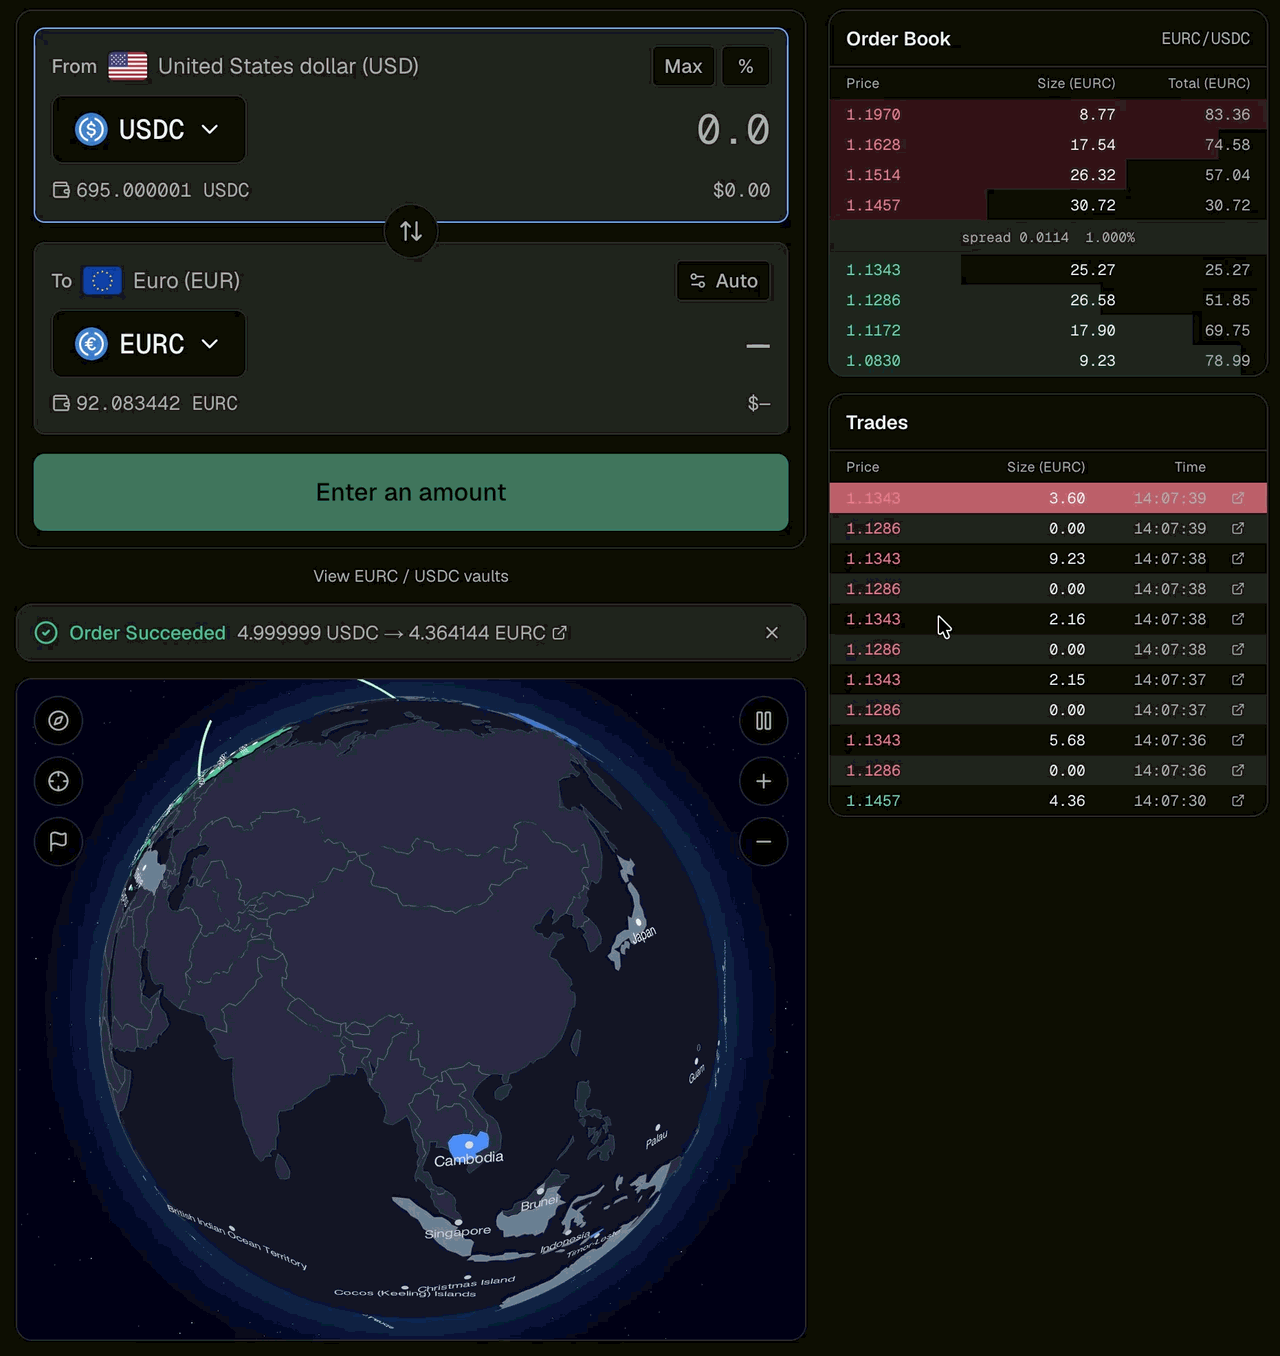
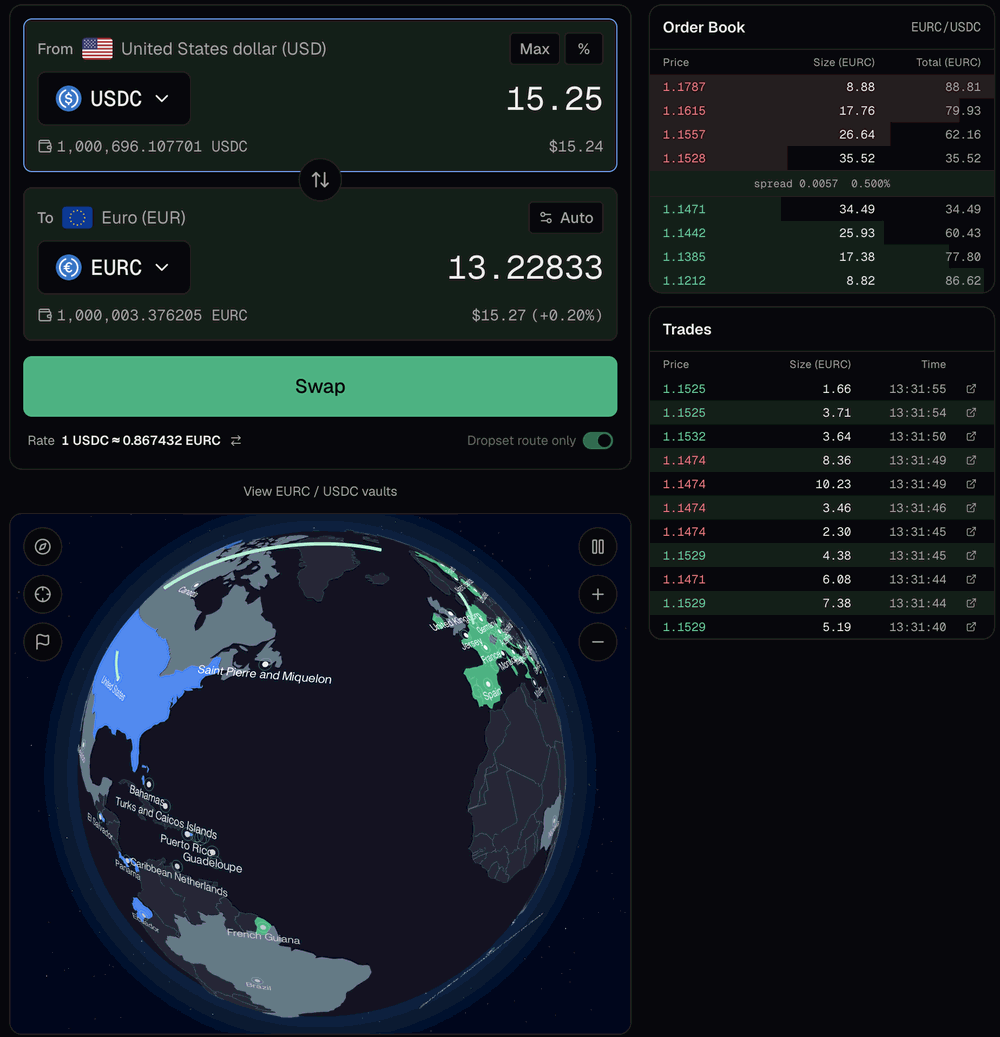
Lay the eCLOB page out as a pipeline and stop guessing at text metrics
The eyebrow kept getting clipped because every fix so far estimated
whether a heading would wrap, and the estimate kept being wrong by a
line. A heading can now say nowrap, so the browser enforces what the
height budget assumes instead. Applied to the four pages with no room to
spare. Enough headroom for a clipped kicker to be the tell that a page is
overflowing, so the export section records that diagnosis and the levers
in order of cheapness.

Also fixes a systematic under-count in that budget: Spectacle's Image is
a bare styled img, so it is inline and sits on a text baseline, leaving
descender space under every capture and making each frame slightly taller
than the image in it. Now display: block, so a frame is exactly its
image.

The eCLOB captures go left to right as a pipeline — what a quote costs,
the maker paying that cost on a live market, the liquidity arriving on
the frontend. That reads low-level to system to product, and three
columns of one capture are far shorter than two stacked in a column,
which is what finally gives the page real room. Its heading shortens to
match.

Currency curation's capture comes down to 1100: at 1150 the page sat
about 36 units off overflowing, which is inside the error bar that caused
this in the first place.

The replacement frontend capture shows a priced swap with the route
toggle on, compressed 666KB to 79KB on the usual recipe.

diff --git a/decks/app/demo-v1/DemoDeck.tsx b/decks/app/demo-v1/DemoDeck.tsx
@@ -141,12 +141,25 @@ const Statement = ({
   children,
   fontSize = "76px",
   maxWidth = "1540px",
+  nowrap = false,
 }: {
   children: React.ReactNode;
   fontSize?: string;
   maxWidth?: string;
+  nowrap?: boolean;
 }) => (
-  <Heading fontSize={fontSize} margin="0" maxWidth={maxWidth}>
+  <Heading
+    fontSize={fontSize}
+    margin="0"
+    maxWidth={maxWidth}
+    // `nowrap` is the guarantee, where `maxWidth` is only an estimate. Text
+    // metrics are what kept breaking these pages: a heading judged to fit one
+    // line took two, the page grew by its own line-height, and the overflow
+    // clipped the eyebrow off the top. On a page with no height to spare, say
+    // "this cannot wrap" and let it be checked at render rather than guessed at
+    // authoring time.
+    style={nowrap ? { whiteSpace: "nowrap" } : undefined}
+  >
     {children}
   </Heading>
 );
@@ -276,7 +289,12 @@ const Screenshot = ({
       padding="14px 18px"
       backgroundColor={colors.muted}
     >
-      <Image src={src} width={width} alt={alt} />
+      {/* `display: block` matters: Spectacle's `Image` is a bare styled `img`,
+          so it is inline by default and sits on a text baseline — which leaves
+          a few units of descender space under every capture and makes each
+          frame slightly taller than the image inside it. On pages fighting for
+          height that error compounds across three captures. */}
+      <Image src={src} width={width} alt={alt} style={{ display: "block" }} />
     </Box>
     {source ? (
       <Link href={`https://${source}`} fontSize="24px" margin="10px 0 0 0">
@@ -332,7 +350,8 @@ const Step = ({
   width,
   alt,
 }: {
-  step: number;
+  /** Omit to label a stage that isn't a numbered user action — see page 6. */
+  step?: number;
   label: string;
   src: string;
   width: number;
@@ -352,7 +371,7 @@ const Step = ({
         marginBottom: "16px",
       }}
     >
-      <span style={{ color: colors.accent }}>{step}. </span>
+      {step ? <span style={{ color: colors.accent }}>{step}. </span> : null}
       {label}
     </div>
     <Box
@@ -361,7 +380,12 @@ const Step = ({
       padding="12px 14px"
       backgroundColor={colors.muted}
     >
-      <Image src={src} width={width - 28} alt={alt} />
+      <Image
+        src={src}
+        width={width - 28}
+        alt={alt}
+        style={{ display: "block" }}
+      />
     </Box>
   </Box>
 );
@@ -854,10 +878,10 @@ export default function DemoDeck() {
       <Slide>
         <SlideBody>
           <Eyebrow>Live today</Eyebrow>
-          {/* Widened measure so this stays on **one** line. It is the cheapest
-              72 units on the page, and the captures need every one of them —
-              see `STEP_WIDTH`. */}
-          <Statement fontSize="60px" maxWidth="1700px">
+          {/* One line, enforced rather than estimated. It is the cheapest 72
+              units on the page and the captures need every one — see
+              `STEP_WIDTH`. */}
+          <Statement fontSize="60px" nowrap>
             Dropset already processes Solana mainnet FX trades.
           </Statement>
           {/* The swap flow left to right, one step per column — the beat that
@@ -921,14 +945,16 @@ export default function DemoDeck() {
       <Slide>
         <SlideBody>
           <Eyebrow>Currency curation</Eyebrow>
-          <Statement fontSize="56px" maxWidth="1700px">
+          <Statement fontSize="56px" nowrap>
             Dropset curates market data for all Solana-based currencies.
           </Statement>
           {/* One capture, as large as the page allows. An earlier version put
-              three tables on this page and none of them could be read. */}
+              three tables on this page and none of them could be read. 1100 is
+              the cap, not a preference: at 1150 this page sat ~36 units off
+              overflowing, which is inside the error bar on text metrics. */}
           <Screenshot
             src="/screens/currencies-by-liquidity.png"
-            width={1150}
+            width={1100}
             alt="Every currency on Solana sorted by on-chain liquidity, deepest first, with price, 24h volume, market cap and holders"
             margin="30px 0 0 0"
           />
@@ -946,7 +972,7 @@ export default function DemoDeck() {
       <Slide>
         <SlideBody>
           <Eyebrow>The long tail</Eyebrow>
-          <Statement fontSize="64px">
+          <Statement fontSize="64px" nowrap>
             Many currencies have no liquidity whatsoever.
           </Statement>
           <Screenshot
@@ -975,49 +1001,47 @@ export default function DemoDeck() {
               landing twice on the one page that introduces it. The compute-unit
               numbers live on the capture that shows them rather than being
               restated here. */}
-          {/* Widened measure and a smaller size so this holds to one line. At
-              64px on the default measure it wrapped to two — and possibly three,
-              which tipped the page past the ~910 units a slide has and clipped
-              the eyebrow off the top, exactly as happened on page 3. This page
-              carries the deck's tallest right-hand capture, so it has the least
-              room to spare for a wrapped heading. */}
-          <Statement fontSize="56px" maxWidth="1760px">
-            The eCLOB provides propAMM efficiency and order-book transparency.
+          {/* Pinned to one line by `nowrap`, not by a width estimate. Every
+              earlier attempt at this heading wrapped further than intended, and
+              the page's own overflow then clipped this slide's eyebrow off the
+              top — three review rounds running. Short copy plus `nowrap` ends
+              that: the browser now enforces what the budget assumes. */}
+          <Statement fontSize="56px" nowrap>
+            Dropset ships propAMM efficiency and order-book transparency.
           </Statement>
-          {/* Left column stacks the two proof captures (the maker's own control
-              panel, and what a quote update costs); the right column is the
-              payoff — the same market rendered on the frontend, book and trades
-              tape and a filled order together. */}
+          {/* Left to right as a pipeline, not a stack: what a quote costs, then
+              the maker paying that cost to quote a live market, then the same
+              liquidity arriving on the frontend. It reads low-level → system →
+              product, which is the actual story, and three columns of one
+              capture each are far shorter than two stacked in a column — the
+              headroom that finally puts this page comfortably inside its slide.
+              Captions sit above on a shared baseline, as on page 3, because the
+              three captures are very different heights. */}
           <FlexBox
-            margin="30px 0 0 0"
+            margin="36px 0 0 0"
             justifyContent="center"
             alignItems="flex-start"
           >
-            <Box margin="0 22px 0 0">
-              <Screenshot
-                src="/screens/maker-tui.png"
-                width={380}
-                alt="The maker control panel: seven FX markets and a live book"
-                caption="Demo maker quoting locally"
-                margin="0"
-              />
-              <Screenshot
-                src="/screens/compute-units.png"
-                width={380}
-                alt="Compute units per instruction: a reprice costs 47, a reshape 59"
-                caption="Reprice: 47 CU · reshape: 59 CU"
-                margin="20px 0 0 0"
-              />
-            </Box>
-            <Box margin="0 0 0 22px">
-              <Screenshot
-                src="/screens/eclob-frontend.png"
-                width={500}
-                alt="The eCLOB on the frontend: a EURC/USDC order book, a live trades tape, and a settled order"
-                caption="Liquidity routes to the frontend"
-                margin="0"
-              />
-            </Box>
+            <Step
+              label="Quoting costs 47 CU"
+              src="/screens/compute-units.png"
+              width={500}
+              alt="Compute units per instruction: a reprice costs 47, a reshape 59"
+            />
+            <SequenceArrow />
+            <Step
+              label="Demo maker quoting locally"
+              src="/screens/maker-tui.png"
+              width={500}
+              alt="The maker control panel: seven FX markets and a live book"
+            />
+            <SequenceArrow />
+            <Step
+              label="Liquidity routes to the frontend"
+              src="/screens/eclob-frontend.png"
+              width={500}
+              alt="The eCLOB on the frontend: a EURC/USDC order book, a live trades tape, and a settled order"
+            />
           </FlexBox>
         </SlideBody>
         <Notes>

diff --git a/decks/demo-v1-spec.md b/decks/demo-v1-spec.md
@@ -65,8 +65,8 @@ pages:
 > data for every Solana-based currency — and when you sort
 > by liquidity, the bottom of that list is currencies with no market
 > whatsoever: the Australian dollar, the Canadian dollar, the yen, the
-> naira, the lira. So we're building the exchange those markets need. The
-> eCLOB provides propAMM efficiency and order-book transparency, where
+> naira, the lira. So we're building the exchange those markets need.
+> Dropset ships propAMM efficiency and order-book transparency, where
 > repricing the whole book costs forty-seven compute units and
 > reshaping the ladder fifty-nine. FX vaults bootstrap a public liquidity
 > flywheel, and it's a two-sided market we're already doing the customer
@@ -218,14 +218,13 @@ pages:
 
 #### Page 6 — The eCLOB · ~18s
 
-- **On-slide:** Eyebrow "The eCLOB", then one sentence: the eCLOB provides
+- **On-slide:** Eyebrow "The eCLOB", then one sentence: Dropset ships
   propAMM efficiency and order-book transparency.
-- **Visual:** Left column stacks the two proof captures — captioned "Demo
-  maker quoting locally", and the compute-unit pane captioned "Reprice: 47
-  CU · reshape: 59 CU". Right column is the payoff: that same liquidity
-  routed through to the frontend, captioned "Liquidity routes to the
-  frontend", showing the order book, the live trades tape and a filled
-  order.
+- **Visual:** Three captures **left to right as a pipeline**, captions
+  above on a shared baseline: "Quoting costs 47 CU" (the compute-unit
+  pane), "Demo maker quoting locally" (the maker's control panel), then
+  "Liquidity routes to the frontend" (the order book, live trades tape and
+  a priced swap on the product itself).
 - **Spoken:** "So we're building the exchange those markets need. Making
   a market onchain used to be prohibitively expensive — gas made
   continuous quoting impossible, so everything before this was a
@@ -234,25 +233,27 @@ pages:
   book with quote updates as cheap as a propAMM. Repricing the whole
   book costs
   forty-seven compute units and reshaping the ladder fifty-nine, on a
-  chain that gives you two hundred thousand per instruction. On the left
-  is our own maker quoting a market locally; on the right that same
-  liquidity routed through to the frontend, with the book, the live
-  trades tape, and a filled order. We're building this out so anyone can
-  quote onchain with a vault-style approach."
-- **Note:** **One sentence, not a statement plus a supporting line.** An
-  intermediate draft led with "we are building an exchange to solve this"
-  and put the design's properties underneath; the segue now lives in the
-  spoken track instead. The sentence **names the eCLOB even though the
-  eyebrow above already does** — the kicker is a small tag and the
-  sentence is the claim, and the name is worth landing twice on the one
-  page that introduces it. The
+  chain that gives you two hundred thousand per instruction. Left to right:
+  that's what a quote costs, that's our own maker paying it to quote a live
+  market, and that's the same liquidity arriving on the frontend with the
+  book, the trades tape and a priced swap. We're building this out so
+  anyone can quote onchain with a vault-style approach."
+- **Note:** **One short sentence, and it must not wrap.** This heading is
+  the page's whole height budget: it went through four drafts, each of
+  which wrapped one line further than intended, and each time the overflow
+  clipped this slide's own eyebrow off the top. The current copy is short
+  enough *and* pinned with `nowrap`, so the browser enforces what the
+  budget assumes rather than the author estimating text metrics. The
   compute-unit numbers live on the capture that shows them rather than
-  being restated on the slide. The pairing of captures is the other point
-  of the page: the demo maker quoting locally on the left, that same liquidity
-  arriving on the frontend on the right. This replaced a strip of four
-  small keyframe thumbnails — one screenshot of the whole thing working
-  says more than four stills of it starting up, and needs no localnet
-  capture session to produce.
+  being restated in the heading.
+- **Note on the pipeline:** left to right is **low-level → system →
+  product**: the cost of a quote, the maker paying that cost, the
+  liquidity showing up on the frontend. Three columns of one capture each
+  is also far shorter than two stacked in a column, which is the change
+  that finally gave this page real headroom. It replaced a strip of four
+  small keyframe thumbnails — one screenshot of the thing working says
+  more than four stills of it starting up, and needs no localnet capture
+  session to produce.
 
 #### Page 7 — How we grow · ~15s
 
@@ -557,6 +558,16 @@ static page** — nothing clipped, no interactive chrome in the output.
 Content that overflows a slide is merely scaled on screen but **silently
 clipped in print**, so a layout change means one pass through print mode
 before it's done.
+
+**If a page's eyebrow looks cut off at the top, the page is overflowing.**
+Slide content is flex-centred in the ~910 units a slide has, so an
+overflow splits between top and bottom and takes the kicker with it —
+which reads as a missing title rather than as too much content. In
+descending order of cheapness, the levers are: pin the heading to one line
+(`nowrap` on `Statement`, worth ~70 units and the usual culprit), shorten
+the heading, lay stacked captures out side by side instead, then shrink the
+captures. Estimating text metrics by eye is what caused every instance of
+this; prefer the constraint the browser enforces.
 
 ### Guidelines — the principles this deck is designed to
 
